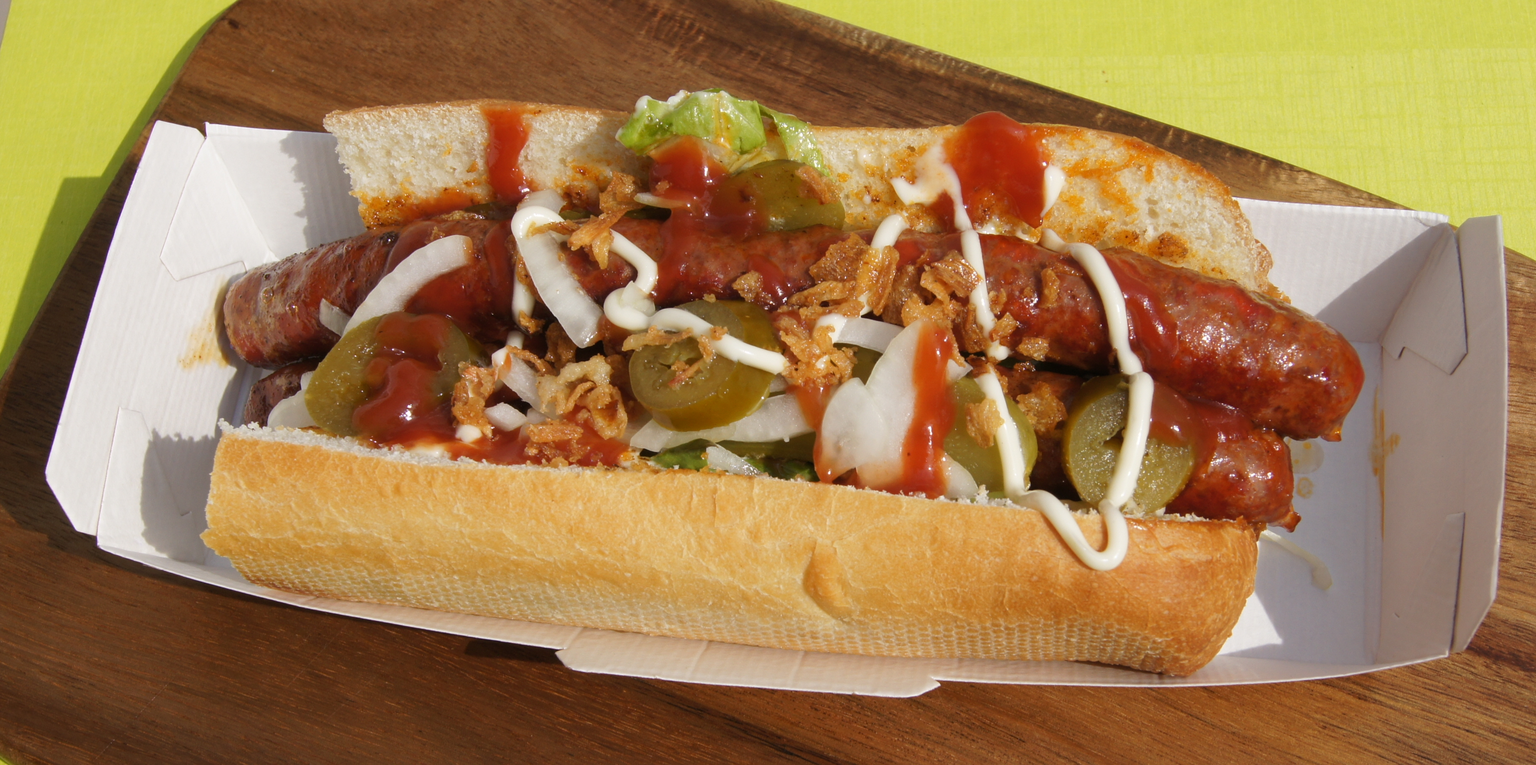
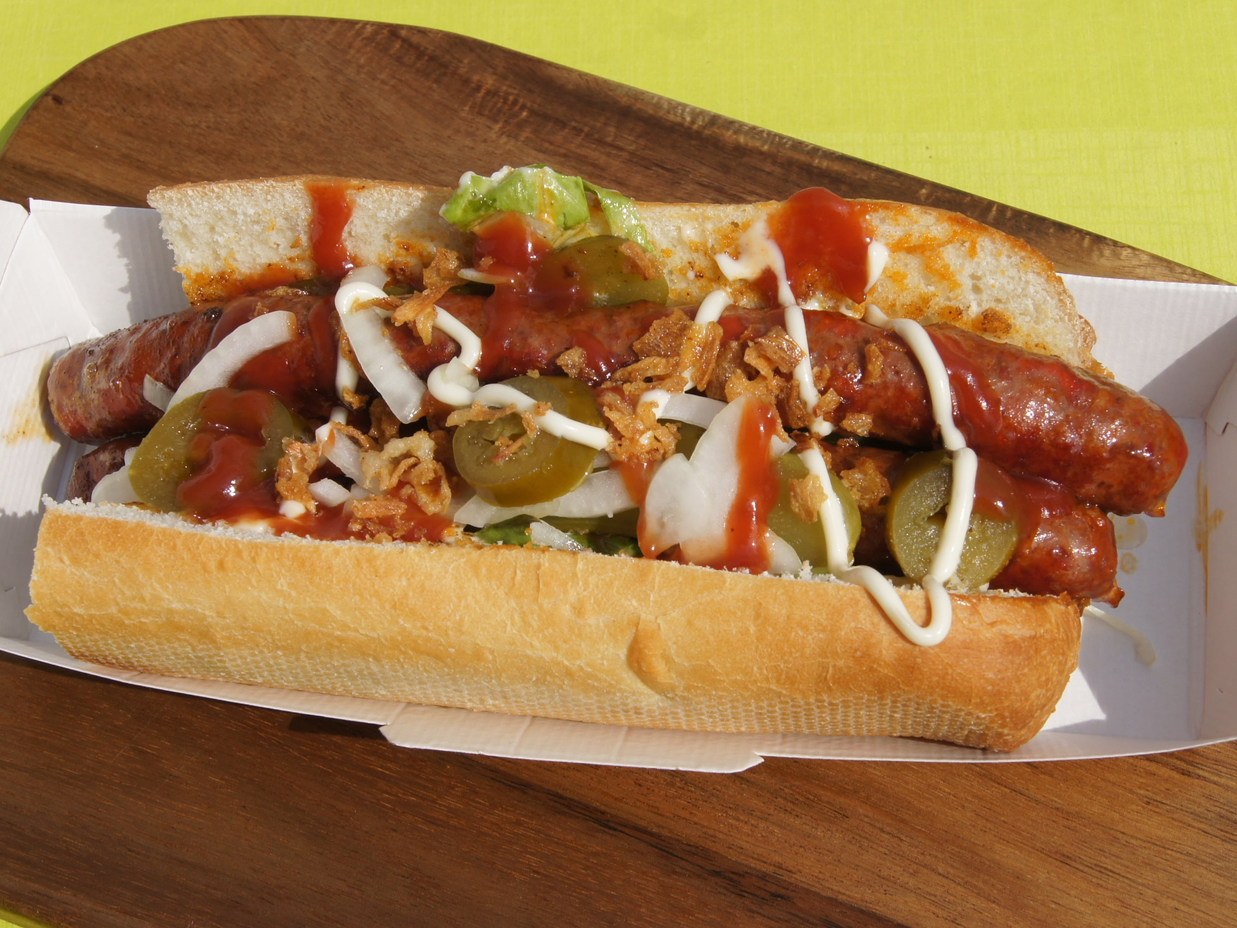
senf entfernt, bilder bearbeitet

diff --git a/template/components/restaurant/menu/main-dish-card.tsx b/template/components/restaurant/menu/main-dish-card.tsx
@@ -19,7 +19,7 @@ function DishImage({ dish, priority = false }: { dish: MainDish, priority?: bool
   const showFallback = !dish.image || imageState === 'error';
   
   return (
-    <div className="w-full sm:w-28 h-28 flex-shrink-0 p-3">
+    <div className="w-full aspect-[4/3] sm:w-32 lg:w-48 sm:aspect-[4/3] flex-shrink-0 p-3">
       <div className="w-full h-full relative bg-muted/30 rounded-lg overflow-hidden border border-border/50">
         {showFallback ? (
           // Fallback: Emoji for appetite appeal

diff --git a/template/components/restaurant/menu/menu-data.ts b/template/components/restaurant/menu/menu-data.ts
@@ -158,10 +158,6 @@ export const authenticBurgergrillMenu: BurgergrillMenu = {
     {
       id: 'barbecue',
       name: 'Barbecue'
-    },
-    {
-      id: 'senf',
-      name: 'Senf'
     }
   ],
 
